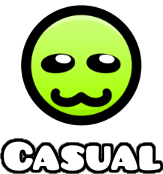
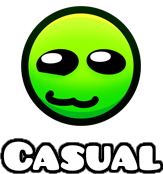
more difficulties 1.8.3

diff --git a/changelog.md b/changelog.md
@@ -1,3 +1,7 @@
+# 1.8.3
+ * Remade Uproxide Difficulty textures.
+  - Miss the old ones? Download Legacy Uproxide Difficulties from [Texture Workshop](mod:uproxide.textures)!
+
 # 1.8.2
  * JIT-Less support for iOS
 
